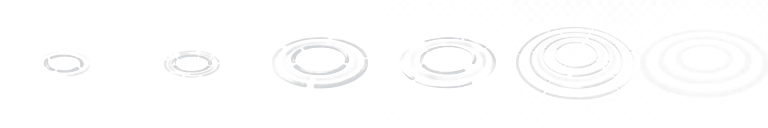
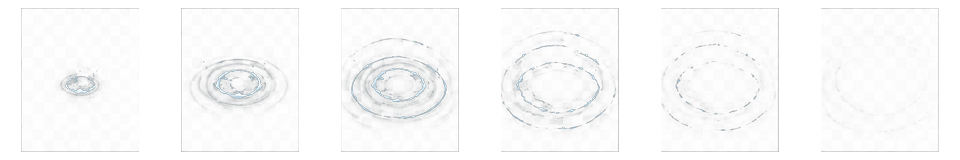
Wire painted bow waves, wakes, splashes, ripples, and caustics
Replaces the procedural water effects with hand-painted sprites from
water-effects.zip. Each sprite was background-removed (luminance-keyed),
sliced into frames where needed, and cropped tightly with a transparent
margin so frame edges never read as visible rectangles.

- bow-wave / wake: drawn on each in-stream piece, oriented to the local
  flow direction. Skipped for items resting on the banks so dry rocks
  don't sprout wakes.
- splash-sheet: 8-frame sluice and burst splashes, replaces the white
  circles in drawSplashes.
- drop-ripple: refreshed sheet with proper alpha margin (was leaking a
  thin border previously).
- water-caustics: ambient screen-blended overlay, two oversized drifting
  copies clipped to the stream so highlights stay alive even with no
  obstacles in the water.

diff --git a/src/render.js b/src/render.js
@@ -1,7 +1,7 @@
 // Renders the world. Uses real images when assets are available; otherwise
 // falls back to procedural shapes so the game is playable without art.
 
-import { W, H, STREAM, BUILD_LINE, PIECE_TYPES, streamTangentAt } from "./state.js";
+import { W, H, STREAM, BUILD_LINE, PIECE_TYPES, streamTangentAt, isInStream } from "./state.js";
 import { computeDamState } from "./water.js";
 
 export function render(ctx, state, assets) {
@@ -14,10 +14,14 @@ export function render(ctx, state, assets) {
     drawProceduralBackground(ctx, state.t);
   }
 
+  // Ambient animated caustics over the wet stream — keeps the surface alive
+  // even when nothing is happening.
+  drawCaustics(ctx, state, assets);
+
   // Animated water overlay (subtle ripple) on top of stream bed if no
   // pre-rendered background — otherwise we still draw light highlights on
   // top of the painted background so the stream looks alive.
-  drawWaterEffects(ctx, state);
+  drawWaterEffects(ctx, state, assets);
 
   // Dam pieces in placement order.
   for (const p of state.placed) {
@@ -233,59 +237,133 @@ function drawSimpleLeaf(ctx, x, y, rot) {
 
 // ---------- water effects (gap jets + foam) ----------
 
-function drawWaterEffects(ctx, state) {
+function drawWaterEffects(ctx, state, assets) {
   const dam = computeDamState(state.placed);
   drawUpstreamPool(ctx, state.pressure ?? 0);
-  drawObstacleFlow(ctx, state);
+  drawObstacleFlow(ctx, state, assets);
   drawLateralRuns(ctx, dam.lateral, state.t, state.pressure ?? 0);
   for (const j of dam.jets) {
     drawGapRush(ctx, j.x, j.y, j.width, j.strength, state.t);
   }
   drawEddies(ctx, state);
-  drawSplashes(ctx, state);
+  drawSplashes(ctx, state, assets);
+}
+
+// Slow-cycling caustic tile over the wet stream surface. Adds constant gentle
+// motion to the water so the scene never feels static. Clipped to the stream
+// path and screen-blended so it brightens highlights without flattening color.
+function drawCaustics(ctx, state, assets) {
+  const a = assets?.caustics;
+  if (!a || !a.loaded) return;
+  ctx.save();
+  // Clip to stream so the caustics never spill onto the banks.
+  const path = STREAM.path;
+  ctx.beginPath();
+  for (let i = 0; i < path.length; i++) {
+    const pt = path[i];
+    if (i === 0) ctx.moveTo(pt.x - pt.w / 2, pt.y);
+    else ctx.lineTo(pt.x - pt.w / 2, pt.y);
+  }
+  for (let i = path.length - 1; i >= 0; i--) {
+    const pt = path[i];
+    ctx.lineTo(pt.x + pt.w / 2, pt.y);
+  }
+  ctx.closePath();
+  ctx.clip();
+
+  const frames = a.frames || 8;
+  const fs = a.frameSize || 256;
+  const fi = Math.floor(state.t * 9) % frames; // ~9 fps
+  ctx.globalCompositeOperation = "screen";
+  ctx.globalAlpha = 0.18;
+
+  // Two oversized overlapping copies, stretched well beyond the canvas so
+  // their edges always land off-stream and never read as a visible rectangle.
+  // Slow drift in opposite directions keeps the highlight pattern moving.
+  const drift = state.t * 18;
+  const cw = 2000, chh = 1500;
+  ctx.drawImage(a.image, fi * fs, 0, fs, fs,
+    -300 + (drift % 80) - 40, -200 + ((drift * 0.6) % 60), cw, chh);
+  const fi2 = (fi + 3) % frames;
+  ctx.globalAlpha = 0.12;
+  ctx.drawImage(a.image, fi2 * fs, 0, fs, fs,
+    -400 - (drift % 80), -100 - ((drift * 0.4) % 50), cw, chh);
+  ctx.restore();
 }
 
 // Bow waves and trailing wakes for stationary pieces in the stream. This is
 // what reads as "water flowing around things" before the dam is sealed —
 // without it a half-built dam looks like inert rocks sitting in still water.
-function drawObstacleFlow(ctx, state) {
+function drawObstacleFlow(ctx, state, assets) {
+  const bow = assets?.bowWave;
+  const wake = assets?.wake;
   ctx.save();
   for (const p of state.placed) {
     if (p.flowing) continue;
     if (p.type !== "pebble" && p.type !== "stick") continue;
+    // Only pieces actually sitting in the wet stream displace water — bank
+    // items shouldn't sprout wakes on dry ground.
+    if (!isInStream(p.x, p.y)) continue;
     const def = PIECE_TYPES[p.type];
     const tan = streamTangentAt(p.x, p.y);
     const nx = -tan.dy, ny = tan.dx;
     const halfW = def.w / 2;
+    const angle = Math.atan2(tan.dy, tan.dx);
 
-    // Bow wave: thin bright crescent on the upstream face.
-    const bx = p.x - tan.dx * (halfW + 1);
-    const by = p.y - tan.dy * (halfW + 1);
-    ctx.save();
-    ctx.translate(bx, by);
-    ctx.rotate(Math.atan2(tan.dy, tan.dx));
-    ctx.strokeStyle = "rgba(255,255,255,0.42)";
-    ctx.lineWidth = 1.6;
-    ctx.beginPath();
-    ctx.arc(0, 0, halfW * 0.95, Math.PI * 0.6, Math.PI * 1.4);
-    ctx.stroke();
-    ctx.restore();
-
-    // Wake streaks: two curving lines fanning slightly outward downstream.
-    ctx.strokeStyle = "rgba(255,255,255,0.22)";
-    ctx.lineWidth = 1.3;
-    const wakeLen = 55 + halfW;
-    for (const side of [-1, 1]) {
-      const sx = p.x + tan.dx * (halfW * 0.4) + nx * side * halfW * 0.7;
-      const sy = p.y + tan.dy * (halfW * 0.4) + ny * side * halfW * 0.7;
-      const cx = sx + tan.dx * wakeLen * 0.55 + nx * side * 10;
-      const cy = sy + tan.dy * wakeLen * 0.55 + ny * side * 10;
-      const ex = sx + tan.dx * wakeLen + nx * side * 3;
-      const ey = sy + tan.dy * wakeLen + ny * side * 3;
+    if (bow && bow.loaded) {
+      // Painted bow wave hugs the upstream face. Wide enough to flare past
+      // the piece on both sides so it reads even with the obstacle drawn on
+      // top.
+      const bw = def.w * 1.7;
+      const bh = bw * (bow.image.height / bow.image.width);
+      ctx.save();
+      ctx.translate(p.x - tan.dx * (halfW * 0.6), p.y - tan.dy * (halfW * 0.6));
+      ctx.rotate(angle + Math.PI / 2);
+      ctx.globalAlpha = 0.9;
+      ctx.drawImage(bow.image, -bw / 2, -bh * 0.85, bw, bh);
+      ctx.restore();
+    } else {
+      const bx = p.x - tan.dx * (halfW + 1);
+      const by = p.y - tan.dy * (halfW + 1);
+      ctx.save();
+      ctx.translate(bx, by);
+      ctx.rotate(angle);
+      ctx.strokeStyle = "rgba(255,255,255,0.42)";
+      ctx.lineWidth = 1.6;
       ctx.beginPath();
-      ctx.moveTo(sx, sy);
-      ctx.quadraticCurveTo(cx, cy, ex, ey);
+      ctx.arc(0, 0, halfW * 0.95, Math.PI * 0.6, Math.PI * 1.4);
       ctx.stroke();
+      ctx.restore();
+    }
+
+    if (wake && wake.loaded) {
+      // Painted wake fans straight downstream. The sprite's long axis points
+      // from its narrow tail to its wide head, so we orient it so the head
+      // sits behind the obstacle and the tail trails away downstream.
+      const wakeLen = def.w * 1.6 + 30;
+      const wakeH = wakeLen * (wake.image.height / wake.image.width);
+      ctx.save();
+      ctx.translate(p.x + tan.dx * halfW * 0.6, p.y + tan.dy * halfW * 0.6);
+      ctx.rotate(angle);
+      ctx.globalAlpha = 0.7;
+      ctx.drawImage(wake.image, 0, -wakeH / 2, wakeLen, wakeH);
+      ctx.restore();
+    } else {
+      ctx.strokeStyle = "rgba(255,255,255,0.22)";
+      ctx.lineWidth = 1.3;
+      const wakeLen = 55 + halfW;
+      for (const side of [-1, 1]) {
+        const sx = p.x + tan.dx * (halfW * 0.4) + nx * side * halfW * 0.7;
+        const sy = p.y + tan.dy * (halfW * 0.4) + ny * side * halfW * 0.7;
+        const cx = sx + tan.dx * wakeLen * 0.55 + nx * side * 10;
+        const cy = sy + tan.dy * wakeLen * 0.55 + ny * side * 10;
+        const ex = sx + tan.dx * wakeLen + nx * side * 3;
+        const ey = sy + tan.dy * wakeLen + ny * side * 3;
+        ctx.beginPath();
+        ctx.moveTo(sx, sy);
+        ctx.quadraticCurveTo(cx, cy, ex, ey);
+        ctx.stroke();
+      }
     }
   }
   ctx.restore();
@@ -481,18 +559,32 @@ function drawRipples(ctx, state, assets) {
   ctx.restore();
 }
 
-function drawSplashes(ctx, state) {
+function drawSplashes(ctx, state, assets) {
   if (!state.splashes?.length) return;
+  const sheet = assets?.splashSheet;
   ctx.save();
   for (const s of state.splashes) {
     const k = s.age / s.life;
     if (k >= 1) continue;
-    const r = (s.big ? 22 : 6) * (0.4 + 0.9 * k);
-    ctx.globalAlpha = (1 - k) * (s.big ? 0.85 : 0.7);
-    ctx.fillStyle = "rgba(255,255,255,0.95)";
-    ctx.beginPath();
-    ctx.arc(s.x, s.y - k * (s.big ? 30 : 14), r, 0, Math.PI * 2);
-    ctx.fill();
+    if (sheet && sheet.loaded) {
+      const frames = sheet.frames || 8;
+      const fs = sheet.frameSize || 128;
+      const fi = Math.min(frames - 1, Math.floor(k * frames));
+      const size = s.big ? 160 : 70;
+      ctx.globalAlpha = Math.min(1, (1 - k) * 1.4);
+      ctx.drawImage(
+        sheet.image,
+        fi * fs, 0, fs, fs,
+        s.x - size / 2, s.y - size * 0.85, size, size
+      );
+    } else {
+      const r = (s.big ? 22 : 6) * (0.4 + 0.9 * k);
+      ctx.globalAlpha = (1 - k) * (s.big ? 0.85 : 0.7);
+      ctx.fillStyle = "rgba(255,255,255,0.95)";
+      ctx.beginPath();
+      ctx.arc(s.x, s.y - k * (s.big ? 30 : 14), r, 0, Math.PI * 2);
+      ctx.fill();
+    }
   }
   ctx.restore();
 }

diff --git a/src/assets.js b/src/assets.js
@@ -11,7 +11,11 @@ export const ASSETS = {
   piecePebble:   { src: "assets/piece-pebble.png" },
   pieceLeaf:     { src: "assets/piece-leaf.png" },
   splash:        { src: "assets/splash.png" },
-  dropRipple:    { src: "assets/drop-ripple.png", frames: 6, frameSize: 128 },
+  dropRipple:    { src: "assets/drop-ripple.png", frames: 6, frameSize: 160 },
+  splashSheet:   { src: "assets/splash-sheet.png", frames: 8, frameSize: 128 },
+  bowWave:       { src: "assets/bow-wave.png" },
+  wake:          { src: "assets/wake.png" },
+  caustics:      { src: "assets/water-caustics.png", frames: 8, frameSize: 256 },
 };
 
 export async function loadAssets() {